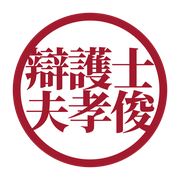
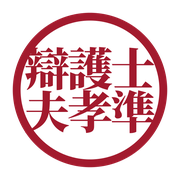
파비콘 인장 글자 정정: 夫孝俊 → 夫孝準(기준 준)
Claude-Session: https://claude.ai/code/session_011G5USozANYLRdpZC2v2mTN

Changed region(s): [[0.6111, 0.5, 0.8611, 0.75]]

diff --git a/work/favicon_gen.py b/work/favicon_gen.py
@@ -36,7 +36,7 @@ FONT_INDEX = 1  # Noto Serif CJK KR Black
 CRIMSON = "#a21a2d"   # 홈페이지 --seal 값(고려대 크림슨을 화면용으로 올린 값)
 PAPER = "#ffffff"
 
-ROWS = ["辯護士", "夫孝俊"]  # 원본 인장과 같은 배열: 윗줄 변호사, 아랫줄 부효준(왼쪽→오른쪽)
+ROWS = ["辯護士", "夫孝準"]  # 원본 인장과 같은 배열: 윗줄 변호사, 아랫줄 부효준(왼쪽→오른쪽). 준은 '기준 준(準)' — 2026. 10. 21. 본인 정정
 
 # ---- 모양 조절값 (viewBox 0 0 100 100 기준) ----
 VIEW = 100.0
